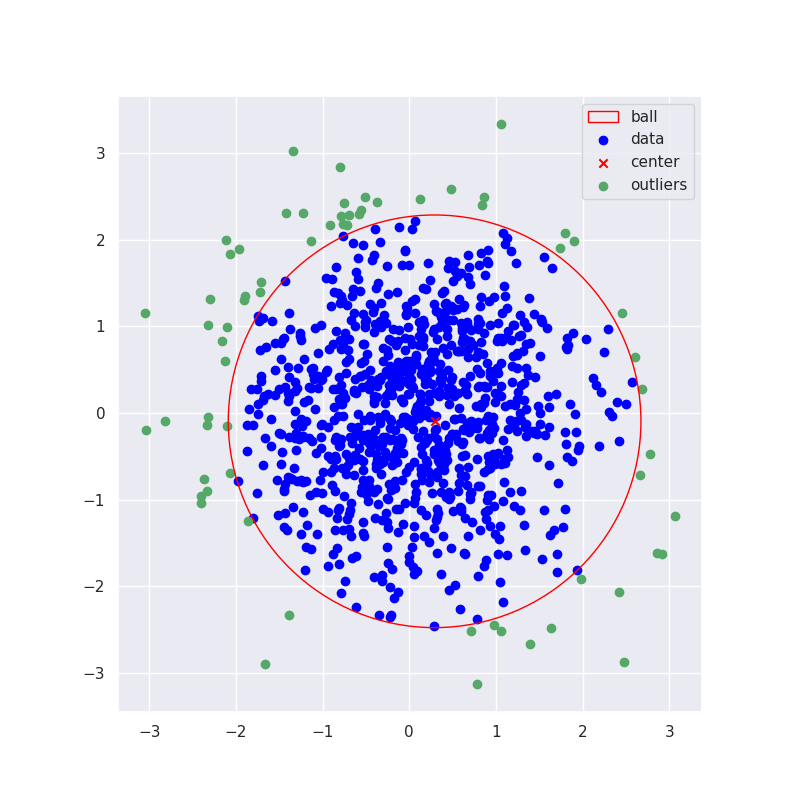
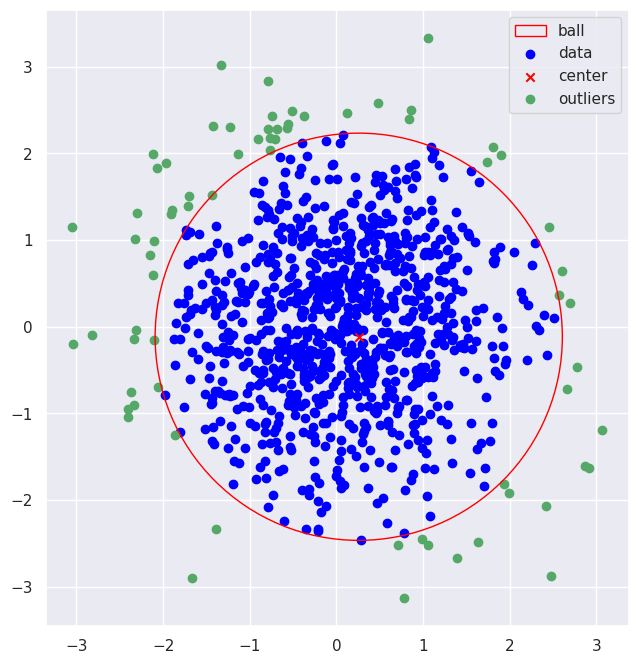
example mebwo

diff --git a/src/mebwo_example.py b/src/mebwo_example.py
@@ -12,9 +12,9 @@ d = 2
 np.random.seed(2000)
 data = data.generation.normal(0,1,n,d)
 M = M_estimate(data)
-ball = MEBwO().fit(data=data, method="relaxation_heuristic", eta=0.9, M=M)
+ball = MEBwO().fit(data=data, method="exact", eta=0.9, M=M, outputflag=1)
 
 ball.plot(data, show=False)
 plt.legend()
-plt.savefig(r"images/sample_mebwo.png")
+plt.savefig(r"images/sample_mebwo.png", bbox_inches="tight")
 plt.show()
